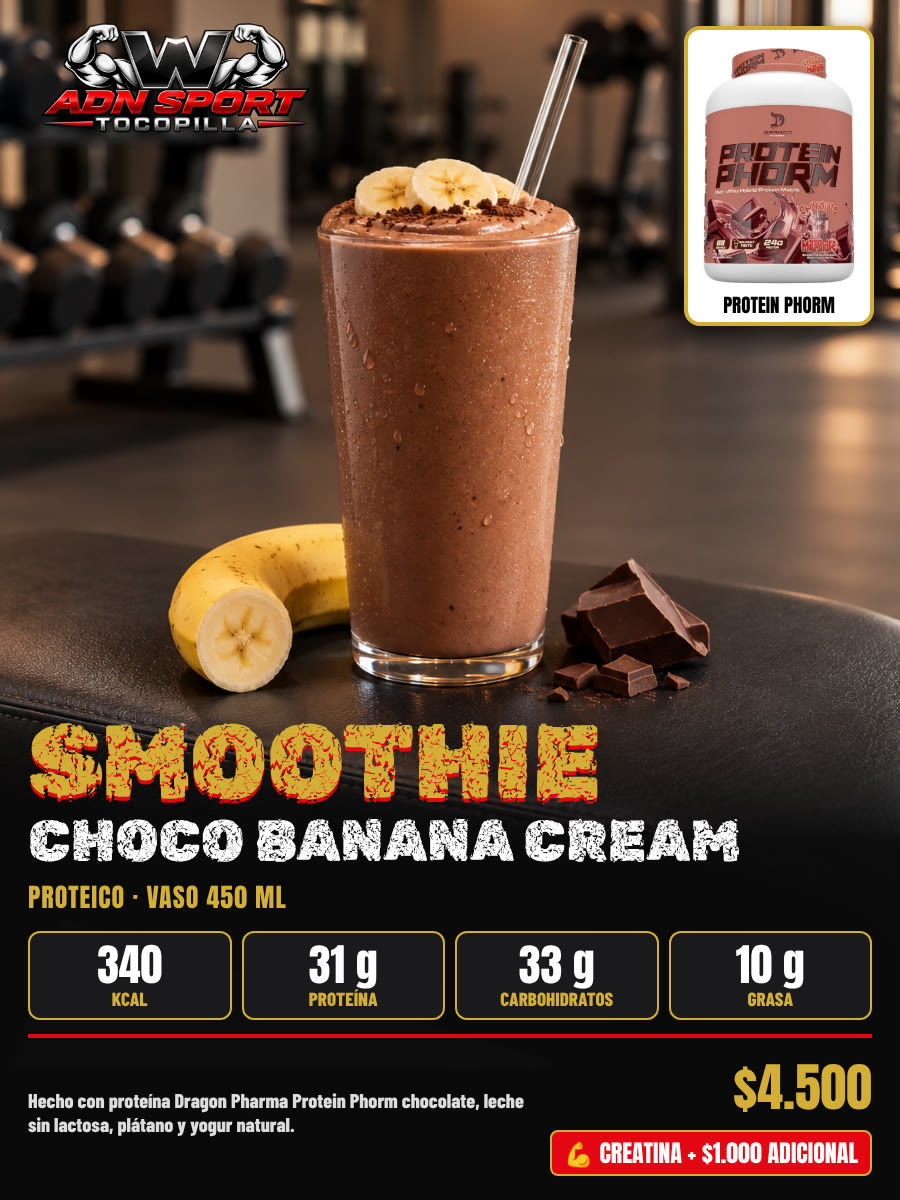
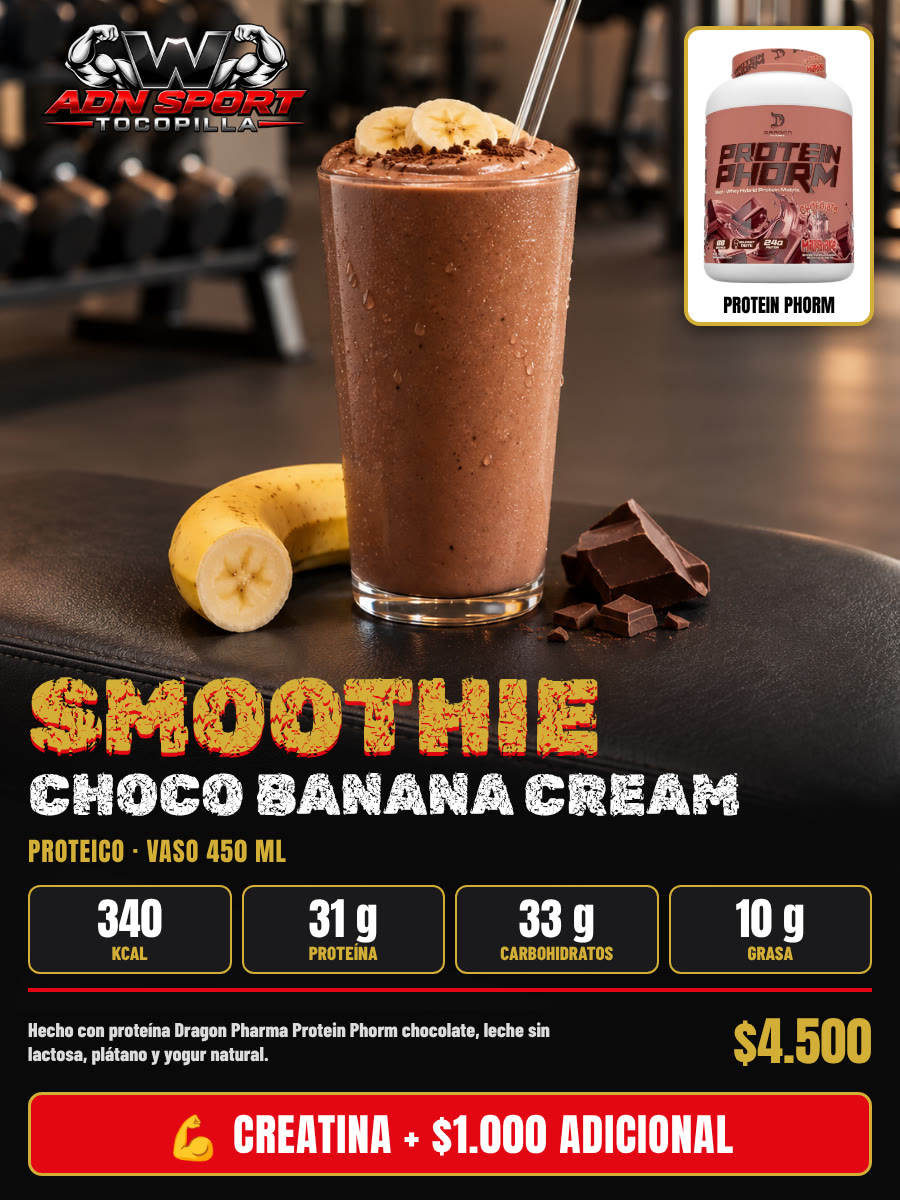
Tienda: creatina adicional más grande en el afiche del smoothie
Claude-Session: https://claude.ai/code/session_013ZgZPSRHEDhMsqmx8Km842

diff --git a/tienda.html b/tienda.html
@@ -261,7 +261,7 @@ function hoyISO(){ return new Intl.DateTimeFormat("en-CA", { timeZone:"America/S
 function ahoraTxt(){ var f = new Intl.DateTimeFormat("sv-SE", { timeZone:"America/Santiago", year:"numeric", month:"2-digit", day:"2-digit", hour:"2-digit", minute:"2-digit" }).format(new Date()); return f.replace("T", " ").slice(0, 16); }
 function normTxt(s){ return String(s || "").toUpperCase().normalize("NFD").replace(/[̀-ͯ]/g, ""); }
 /* Al cambiar una foto en img/tienda/ (mismo nombre), subir FOTO_V para que los teléfonos no muestren la antigua. */
-var FOTO_V = "55";
+var FOTO_V = "56";
 function fotoUrl(f){ return f ? (/^data:/.test(f) ? f : f + (f.indexOf("?") < 0 ? "?v=" + FOTO_V : "")) : ""; }
 /* 📷 Foto subida desde el celular (27-10-2026, la dueña: "¿no lo puedo hacer todo sin depender de ti?"): se achica a
    máx. 480 × 640, se le pone el logo del gimnasio arriba a la izquierda (34 % del ancho, como las demás fotos) y se guarda
@@ -536,7 +536,7 @@ setInterval(function(){ if(pend.length) enviarPendientes(); }, 30000);
    el computador"): los datos se vuelven a pedir a la planilla cada 30 s mientras la página está a la vista (sin una ficha
    abierta), y cada minuto se revisa tienda-version.txt: si hay una versión nueva de la página, se recarga sola.
    Cada vez que se cambie tienda.html, subir TIENDA_VERSION y tienda-version.txt juntos (AAAAMMDDNN). */
-var TIENDA_VERSION = "2026110509";
+var TIENDA_VERSION = "2026110510";
 setInterval(function(){ if(clave && !document.hidden && $("velo").hidden && !$("app").hidden) enviarPendientes().then(function(){ cargar(true); }); }, 30000);
 function revisarVersion(){
  fetch("tienda-version.txt?t=" + Date.now(), { cache:"no-store" }).then(function(r){ return r.ok ? r.text() : ""; }).then(function(v){

diff --git a/tarjeta.html b/tarjeta.html
@@ -2474,7 +2474,7 @@ function renderEvolucion(s){
     oculta con «Ya no lo vendo» no llega. «Lo quiero» abre una ventanita (foto grande, cantidad, total)
     y después WhatsApp a Sara con el pedido. El stock solo baja cuando ella cobra en la tienda.
     Al cambiar una foto de img/tienda/ con el mismo nombre, subir TIENDA_FOTO_V junto con FOTO_V de tienda.html. */
- var TIENDA_FOTO_V = "55", TIENDA_WSP = "56975196394", TIENDA_SITIO = "https://encaladasara363-lang.github.io/wgymadnsport-archivos/";
+ var TIENDA_FOTO_V = "56", TIENDA_WSP = "56975196394", TIENDA_SITIO = "https://encaladasara363-lang.github.io/wgymadnsport-archivos/";
  /* Interruptor (25-10-2026, la dueña: "no quiero publicar la tienda el lunes porque compré ropa en Shein y no sé
     cuándo me llegaría"): en false la tarjeta no muestra la tienda aunque la Versión 25 esté instalada.
     Ponerlo en true (y subir TARJETA_VERSION) solo cuando ella lo pida. */
@@ -2688,7 +2688,7 @@ function renderEvolucion(s){
     compara TARJETA_VERSION con tarjeta-version.txt del sitio y, si hay
     una más nueva, la página se recarga sola (el nombre ya aparece
     puesto). Al cambiar tarjeta.html, subir los DOS números juntos. */
- var TARJETA_VERSION = "2026110514", ultimaRevisionVersion = 0;
+ var TARJETA_VERSION = "2026110515", ultimaRevisionVersion = 0;
 function recargarFresco_(v){
  /* Recarga pidiendo la página nueva (11-10-2026): location.reload() podía traer la copia
     guardada del teléfono (GitHub guarda la página ~10 min) y el socio seguía con la versión

diff --git a/CLAUDE.md b/CLAUDE.md
@@ -1631,7 +1631,7 @@ productos» y «Tienda movimientos», acciones `tienda*` de `docs/apps-script/In
   de «AGOTADO»; pasados los 15 días la prenda ya no se envía.
 - **⛔ SIN STOCK (27-10-2026, la dueña: "cuando se acaba el producto tendría que salir sin stock para que mis socios sepan"):** en 📦 Inventario, todo producto (no ropa vendida, no batido que sale del tarro, no apartado) con stock 0 sale con la foto gris, sello rojo «SIN STOCK» y pastilla «⛔ SIN STOCK · repón con «Llegó mercadería»»; en la búsqueda de 🛒 Vender dice «⛔ SIN STOCK». En la vitrina de la tarjeta el sello dice «SIN STOCK» (antes «AGOTADO») con «Pronto vuelve». Vuelve solo al cargar mercadería.
 - **🍦 Categoría «Helados» (31-10-2026, la dueña mandó su catálogo de helados proteicos sin azúcar, endulzados con stevia y alulosa):** en `CATS` de `tienda.html`, `TIENDA_ICONOS` de `tarjeta.html` y `SIN_APARTAR` (no se apartan); la vitrina cerrada dice «🍦 Helados proteicos sin azúcar». 5 sabores con foto sacada de cada página del catálogo (ya traen el logo; no ponérselo encima): Manjarate (`img/tienda/helado-proteico-manjarate.jpg`, 125 g, 176 kcal · 11,9 P · 19,8 C · 5,8 G), Capuchino (110 g, 130 · 10 · 11 · 5), Tropical Coco (130 g, 143 · 9,8 · 14 · 5,3), Banana Choco Maní (130 g, 161 · 10,9 · 16,3 · 5,8; contiene maní) y Berry Cream (130 g, 126 · 9,9 · 12,3 · 3,9). Pistacho Dorado (01-11-2026, afiche aparte de la dueña; ya trae el logo: `img/tienda/helado-proteico-pistacho-dorado.jpg`; 125 g, 184 kcal · 12,5 P · 15,4 C · 8,0 G; costo $1.100, venta $2.000, 3 unidades; con proteína de vainilla; contiene leche y pistacho; el afiche no dice «sin azúcar», por eso no se puso). Pistacho Menta (02-11-2026, afiche de la dueña con el logo: `img/tienda/helado-proteico-pistacho-menta.jpg`; mismos macros que el Pistacho Dorado, 125 g, 184 kcal · 12,5 P · 15,4 C · 8,0 G; contiene leche y pistacho; 3 unidades; costo y precio como el Pistacho Dorado salvo que la dueña diga otro). Oreo proteico (02-11-2026, afiche de la dueña con el logo: `img/tienda/helado-proteico-oreo.jpg`; 130 g, 185 kcal · 12,6 P · 17,7 C · 7,1 G; con proteína de vainilla y 3 galletas tipo Oreo; contiene leche y trigo; 3 unidades; venta $1.500 como los otros). Coco Bombón proteico (02-11-2026, afiche de la dueña con el logo: `img/tienda/helado-proteico-coco-bombon.jpg`; 182 kcal · 10,0 P · 12,7 C · 10,4 G; coco, almendras y chocolate blanco; contiene leche y almendras; 3 unidades a $1.500). Moka White proteico (03-11-2026, afiche de la dueña con el logo: `img/tienda/helado-proteico-moka-white.jpg`; 154 kcal · 9,7 P · 14,3 C · 7,0 G; café y chocolate blanco; contiene leche; 3 unidades a $1.500). Avellana Manjar proteico (03-11-2026, afiche de la dueña con el logo: `img/tienda/helado-proteico-avellana-manjar.jpg`; 163 kcal · 10,0 P · 13,5 C · 7,8 G; avellanas y manjar; contiene leche y avellanas; 3 unidades a $1.500). Banana Split Nuez proteico (03-11-2026, afiche de la dueña con el logo: `img/tienda/helado-proteico-banana-split-nuez.jpg`; 137 kcal · 8,2 P · 12,3 C · 5,8 G; plátano, nueces y chocolate; contiene leche y nueces; 4 unidades a $1.500; en `TIENDA_MACROS` va antes de la regla de «banana» para no confundirse con Banana Choco Maní). Coco Vainilla proteico (04-11-2026, afiche de la dueña con el logo: `img/tienda/helado-proteico-coco-vainilla.jpg`; 140 kcal · 9,8 P · 9,4 C · 6,7 G; coco y vainilla; contiene leche; 3 unidades a $1.500; en `TIENDA_MACROS` va antes de la regla de «coco» para no confundirse con Coco Bombón). Alfajor Crunch proteico (04-11-2026, afiche de la dueña con el logo: `img/tienda/helado-proteico-alfajor-crunch.jpg`; 164 kcal · 9,4 P · 18,3 C · 6,4 G; galleta, manjar y chocolate; contiene leche, trigo y soya; 3 unidades a $1.500). Mango Chía proteico (05-11-2026, afiche de la dueña con el logo: `img/tienda/helado-proteico-mango-chia.jpg`; 111 kcal · 7,8 P · 10,7 C · 3,9 G; mango y chía; contiene leche; 5 unidades a $1.500). Selva Negra proteico (05-11-2026, afiche de la dueña con el logo: `img/tienda/helado-proteico-selva-negra.jpg`; 112 kcal · 8,6 P · 10,5 C · 3,9 G; cereza y cacao; contiene leche; 3 unidades a $1.500). Menta Chips proteico (05-11-2026, afiche de la dueña con el logo: `img/tienda/helado-proteico-menta-chips.jpg`; 140 kcal · 9,7 P · 10,6 C · 6,2 G; menta y chips de chocolate; contiene leche; 4 unidades a $1.500). Brownie Choco proteico (05-11-2026, afiche de la dueña con el logo: `img/tienda/helado-proteico-brownie-choco.jpg`; 165 kcal · 9,5 P · 14,8 C · 7,9 G; brownie y chocolate; contiene leche, trigo y huevo; 3 unidades a $1.500). **Todos los vasos son de 100 ml (02-11-2026, la dueña): en `TIENDA_MACROS` el campo `por` dice «100 ml» en todos los sabores (los gramos de los afiches eran el peso de la porción).** Los nombres de producto empiezan con «Helado proteico …» porque `TIENDA_MACROS` de la tarjeta los reconoce así (campo `por` = porción del vaso). Precio de venta $1.500 cada uno (la dueña, 31-10-2026); costo y stock por confirmar. **Un solo código para todos los sabores (31-10-2026, pedido de la dueña):** `CODIGOS_GRUPO` en `tienda.html` (`"2001500000000": "Helados"`); al escanearlo en 🛒 Vender (normal o «Escanear varias») se abre «🍦 ¿Qué sabor?» (`elegirDelGrupo`) con la foto y el stock de cada helado, y se suma el elegido (con «varias», la cámara vuelve a abrirse). No se guarda como código de ningún producto. Etiqueta impresa para el refrigerador: 2 por hoja chica de 5 × 7 cm (logo, «HELADOS · PROTEICOS SIN AZÚCAR», código, «TODOS LOS SABORES $1.500»), probada con ZXing.
-- **🥤 Smoothie proteico Choco Banana Cream (05-11-2026, reemplaza al «Batido de proteína» de Clear Protein, que la dueña ya no vende):** Smoothies, vaso de 450 ml, $4.500; receta de la dueña: 200 ml de leche entera sin lactosa, 30 g de proteína Dragon Pharma Protein Phorm chocolate milkshake (carne + whey; tarro 2.268 g a $74.000 → ≈75 smoothies, ≈$979 por 30 g), 70 g de plátano congelado, 60 g de yogur natural sin azúcar, 60 g de hielo, 0,3 g de xantana y stevia opcional; costo ≈$1.580. Foto `img/tienda/smoothie-choco-banana-cream.jpg` (afiche: foto de ChatGPT + logo + cuadro con el tarro Protein Phorm (sin «carne + whey»: a la dueña le pareció feo), para que los socios sepan qué proteína toman, + «SMOOTHIE» grande en dorado con sombra roja (pedido de la dueña) y el sabor en Rubik Distressed blanco, los 4 macros en Anton, $4.500 y la pastilla roja «💪 CREATINA + $1.000 ADICIONAL» bajo el precio (texto pedido por la dueña); armado con HTML y Playwright; cada sabor nuevo, igual). Macros en `TIENDA_MACROS` (`/^smoothie proteico choco banana/`): ≈340 kcal · 31 P · 33 C · 10 G, contiene leche. Lleva «💪 + Creatina $1.000» (`esBatido` en la tienda; en la tarjeta `conCrea` va solo para batidos, smoothies y el granizado: antes salía también en helados y waffle porque usaba `tvMacros_`). El ganador de masa ahora descuenta del tarro del smoothie (`USA_PORCION` base `/^(smoothie|batido de prote)/`; en la vitrina, primero el smoothie).
+- **🥤 Smoothie proteico Choco Banana Cream (05-11-2026, reemplaza al «Batido de proteína» de Clear Protein, que la dueña ya no vende):** Smoothies, vaso de 450 ml, $4.500; receta de la dueña: 200 ml de leche entera sin lactosa, 30 g de proteína Dragon Pharma Protein Phorm chocolate milkshake (carne + whey; tarro 2.268 g a $74.000 → ≈75 smoothies, ≈$979 por 30 g), 70 g de plátano congelado, 60 g de yogur natural sin azúcar, 60 g de hielo, 0,3 g de xantana y stevia opcional; costo ≈$1.580. Foto `img/tienda/smoothie-choco-banana-cream.jpg` (afiche: foto de ChatGPT + logo + cuadro con el tarro Protein Phorm (sin «carne + whey»: a la dueña le pareció feo), para que los socios sepan qué proteína toman, + «SMOOTHIE» grande en dorado con sombra roja (pedido de la dueña) y el sabor en Rubik Distressed blanco, los 4 macros en Anton, $4.500 y la franja roja grande «💪 CREATINA + $1.000 ADICIONAL» a todo el ancho, abajo (texto y tamaño pedidos por la dueña); armado con HTML y Playwright; cada sabor nuevo, igual). Macros en `TIENDA_MACROS` (`/^smoothie proteico choco banana/`): ≈340 kcal · 31 P · 33 C · 10 G, contiene leche. Lleva «💪 + Creatina $1.000» (`esBatido` en la tienda; en la tarjeta `conCrea` va solo para batidos, smoothies y el granizado: antes salía también en helados y waffle porque usaba `tvMacros_`). El ganador de masa ahora descuenta del tarro del smoothie (`USA_PORCION` base `/^(smoothie|batido de prote)/`; en la vitrina, primero el smoothie).
 - **🍹 Categoría «Smoothies» (05-11-2026, la dueña: "una sección de smoothies… unos 10 sabores", el primero el Choco Banana Cream):** en `CATS` de `tienda.html`, `TIENDA_ICONOS` de `tarjeta.html` y `SIN_APARTAR`; la vitrina cerrada dice «🍹 Smoothies proteicos». Todos los sabores salen de las porciones del producto «Tarro de proteína …» (Suplementos, stock = porciones de 30 g; `USA_PORCION` `/^smoothie/` → `/^tarro de prote/`); el tarro no se muestra a los socios (la tarjeta lo saca de la vitrina) y cada smoothie toma su stock. Los nombres empiezan con «Smoothie proteico …»; cada sabor lleva su línea en `TIENDA_MACROS`. Un solo código para todos: `CODIGOS_GRUPO` `"2004500000001": "Smoothies"` («🍹 ¿Qué sabor?» al escanear); etiquetas de 24 por hoja de 5 × 7 pulgadas con «SMOOTHIES $4.500», leídas con ZXing. El ganador de masa también sale del tarro (`/^(tarro de prote|batido de prote)/`).
 - **🍫 Barrita Choco Maní — YA NO SE VENDE desde el 05-11-2026 (la dueña: "las barritas no las haré más"; se oculta en el inventario con «🗑 Ya no lo vendo»; no volver a ofrecerla). Era (03-11-2026, afiche de la dueña + logo arriba a la izquierda al 22 %, como la creatina: `img/tienda/barrita-choco-mani.jpg`):** Snacks, 28 g, chocolate sin azúcar con almendras y maní; costo $1.000, venta $2.000; código propio 200….
 - **🧇 Waffle de arroz, avena y dátil (05-11-2026, receta casera de la dueña, sin topping):** Snacks, 1 waffle belga de su waflera giratoria (≈130 g de masa: harina de arroz, avena, dátil, leche sin lactosa, 12 g de leche en polvo y 30 g de yogur griego por media receta, huevo, aceite de coco); costo ≈$580, venta $1.000 (ella eligió ese precio para vender más), 10 unidades, código propio 200…; foto `img/tienda/waffle-arroz-avena-datil.jpg` (ChatGPT: plato blanco con borde dorado sobre el banco negro, + logo; cambiada el mismo día, FOTO_V 51). Macros en `TIENDA_MACROS` (`/^waffle/`): ≈355 kcal · 12 P · 48 C · 13,5 G; contiene huevo y leche.
